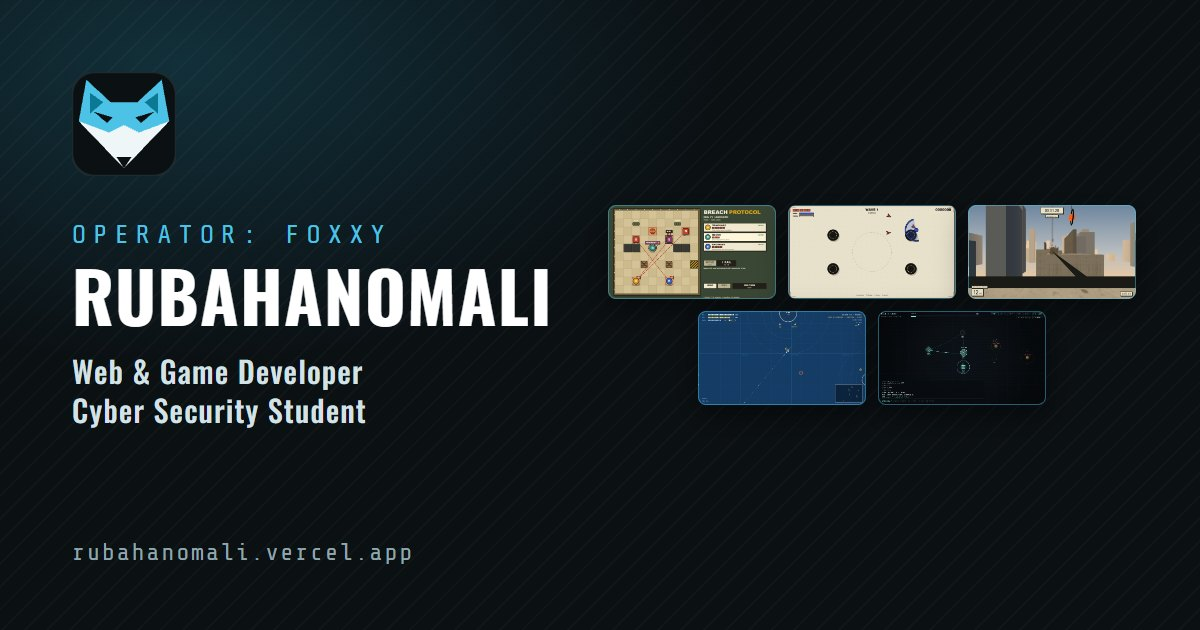
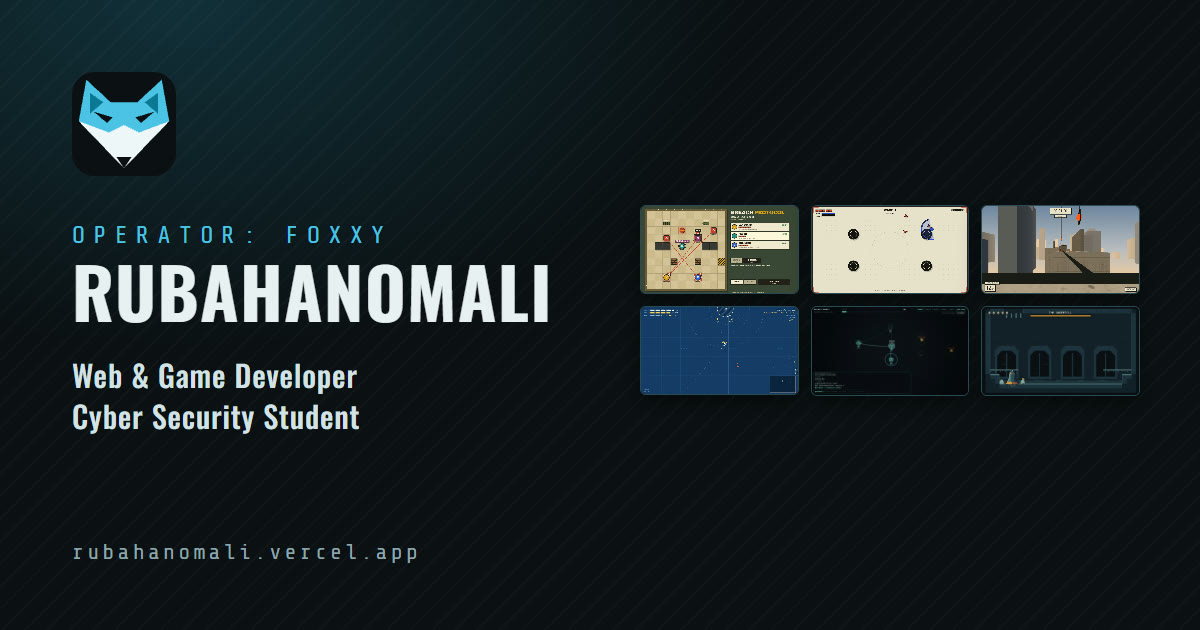
Update the share image and its text for six games
The preview image now shows all six game screenshots, including Drowned Bell.

diff --git a/index.html b/index.html
@@ -11,7 +11,7 @@
     <meta property="og:image" content="https://rubahanomali.vercel.app/og.jpg" />
     <meta property="og:image:width" content="1200" />
     <meta property="og:image:height" content="630" />
-    <meta property="og:image:alt" content="RubahAnomali, web and game developer, with screenshots of five playable games" />
+    <meta property="og:image:alt" content="RubahAnomali, web and game developer, with screenshots of six playable games" />
     <meta name="twitter:card" content="summary_large_image" />
     <link rel="canonical" href="https://rubahanomali.vercel.app/" />
     <meta name="theme-color" content="#0b1013" />
